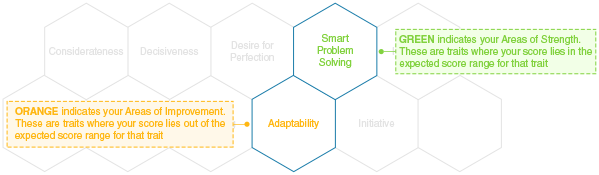
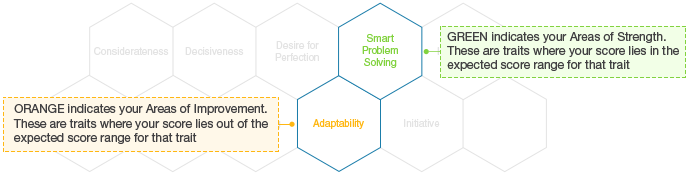
PDF report fixes

diff --git a/app/assets/stylesheets/reports_pdf.sass b/app/assets/stylesheets/reports_pdf.sass
@@ -77,11 +77,25 @@ body
       position: absolute
       width: 55px
       bottom: -16px
+      &.full-logo
+        background: image-url('report/pdf/jombay-logo.png') no-repeat center center
+        position: static
+        float: left
+        width: 110px
+        height: 60px
+        height: 45px
+        img
+          display: none
+
+      
     .logo-partner
       position: absolute
       width: 55px
       bottom: 6px
       left: 86px
+      &.with-full-logo
+        position: static
+        float: left
     .user_name
       font-size: 18px
       font-weight: 700
@@ -267,6 +281,7 @@ body
               border-radius: 2px
               background: #fff
               width: 80px
+              color: #000
             .arrow
               width: 30px
               height: 7px
@@ -275,6 +290,8 @@ body
               top: -4px
             &.less_favorable
               background-position: center -44px
+              &.underlined
+                text-decoration: none
               .score-indicater
                 border-color: #fdc206
               .arrow
@@ -298,6 +315,10 @@ body
 
   @import shared/reports/scale_pdf.sass
   .favorable_factors
+    .instruction_container
+      .instructions
+        .less_favorable
+          text-decoration: none
     .indication
       font-size: 14px
       line-height: 22px
@@ -601,7 +622,7 @@ body
     .factors_list
       position: relative
       background: image-url('report/pdf/competency/competency-hexagon-bg.png') no-repeat center center
-      min-height: 240px
+      min-height: 220px
 
       [class*="factor_"]
         font-size: 10px
@@ -612,61 +633,61 @@ body
         width: 80px
       .factor_1
         left: 348px
-        top: 60px
+        top: 40px
       .factor_2
         left: 390px
-        top: 130px
+        top: 110px
       .factor_3
         left: 307px
-        top: 130px
+        top: 110px
       .factor_4
-        top: 130px
+        top: 110px
         left: 225px
       .factor_5
         left: 265px
-        top: 60px
+        top: 40px
       .factor_6
         left: 430px
-        top: 60px
+        top: 40px
       .factor_7
         left: 472px
-        top: 130px
+        top: 110px
       .factor_8
         left: 142px
-        top: 130px
+        top: 110px
       .factor_9
         left: 183px
-        top: 60px
+        top: 40px
       .factor_10
         left: 515px
-        top: 60px
+        top: 40px
       .factor_11
         left: 555px
-        top: 130px
+        top: 110px
       .factor_12
         left: 60px
-        top: 130px
+        top: 110px
       .factor_13
         left: 100px
-        top: 60px
+        top: 40px
       .factor_14
         left: 595px
-        top: 60px
+        top: 40px
       .factor_15
-        top: 130px
+        top: 110px
         left: 640px
       .factor_16
         left: 225px
-        top: -12px
+        top: -22px
       .factor_17
         left: 307px
-        top: -12px
+        top: -22px
       .factor_18
         left: 390px
-        top: -12px
+        top: -22px
       .factor_19
         left: 432px
-        top: -12px
+        top: -22px
     .frame
       border: 2px solid #28b29b
      
@@ -976,6 +997,7 @@ body
       width: 100px
       margin-left: -25px
     img
+      margin-left: -35px
       max-width: none
     .title
       color: $color-warning
